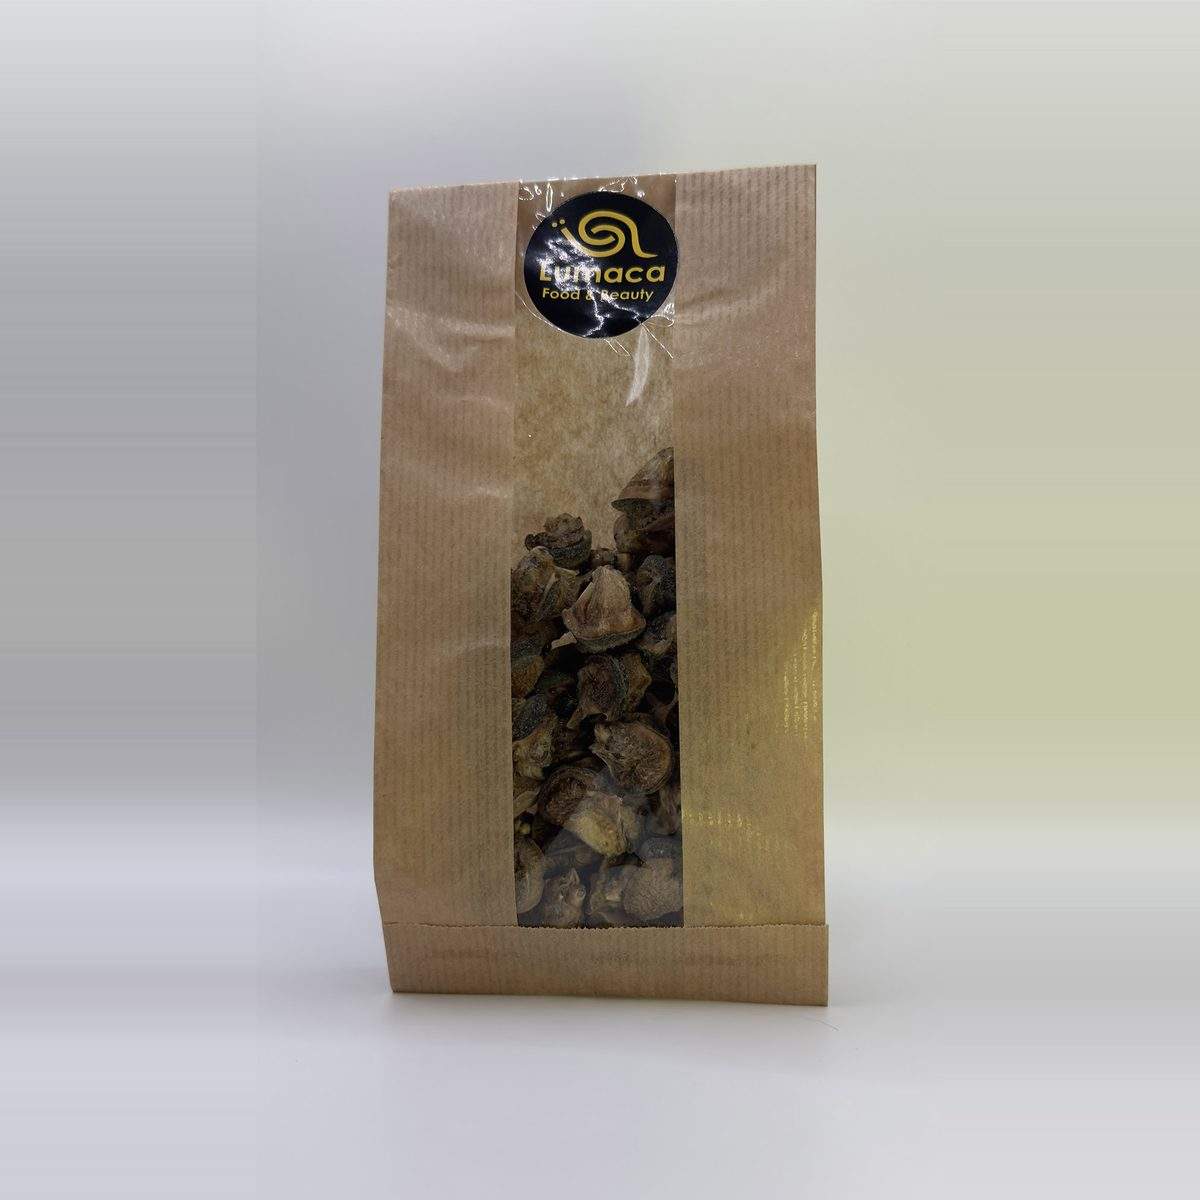
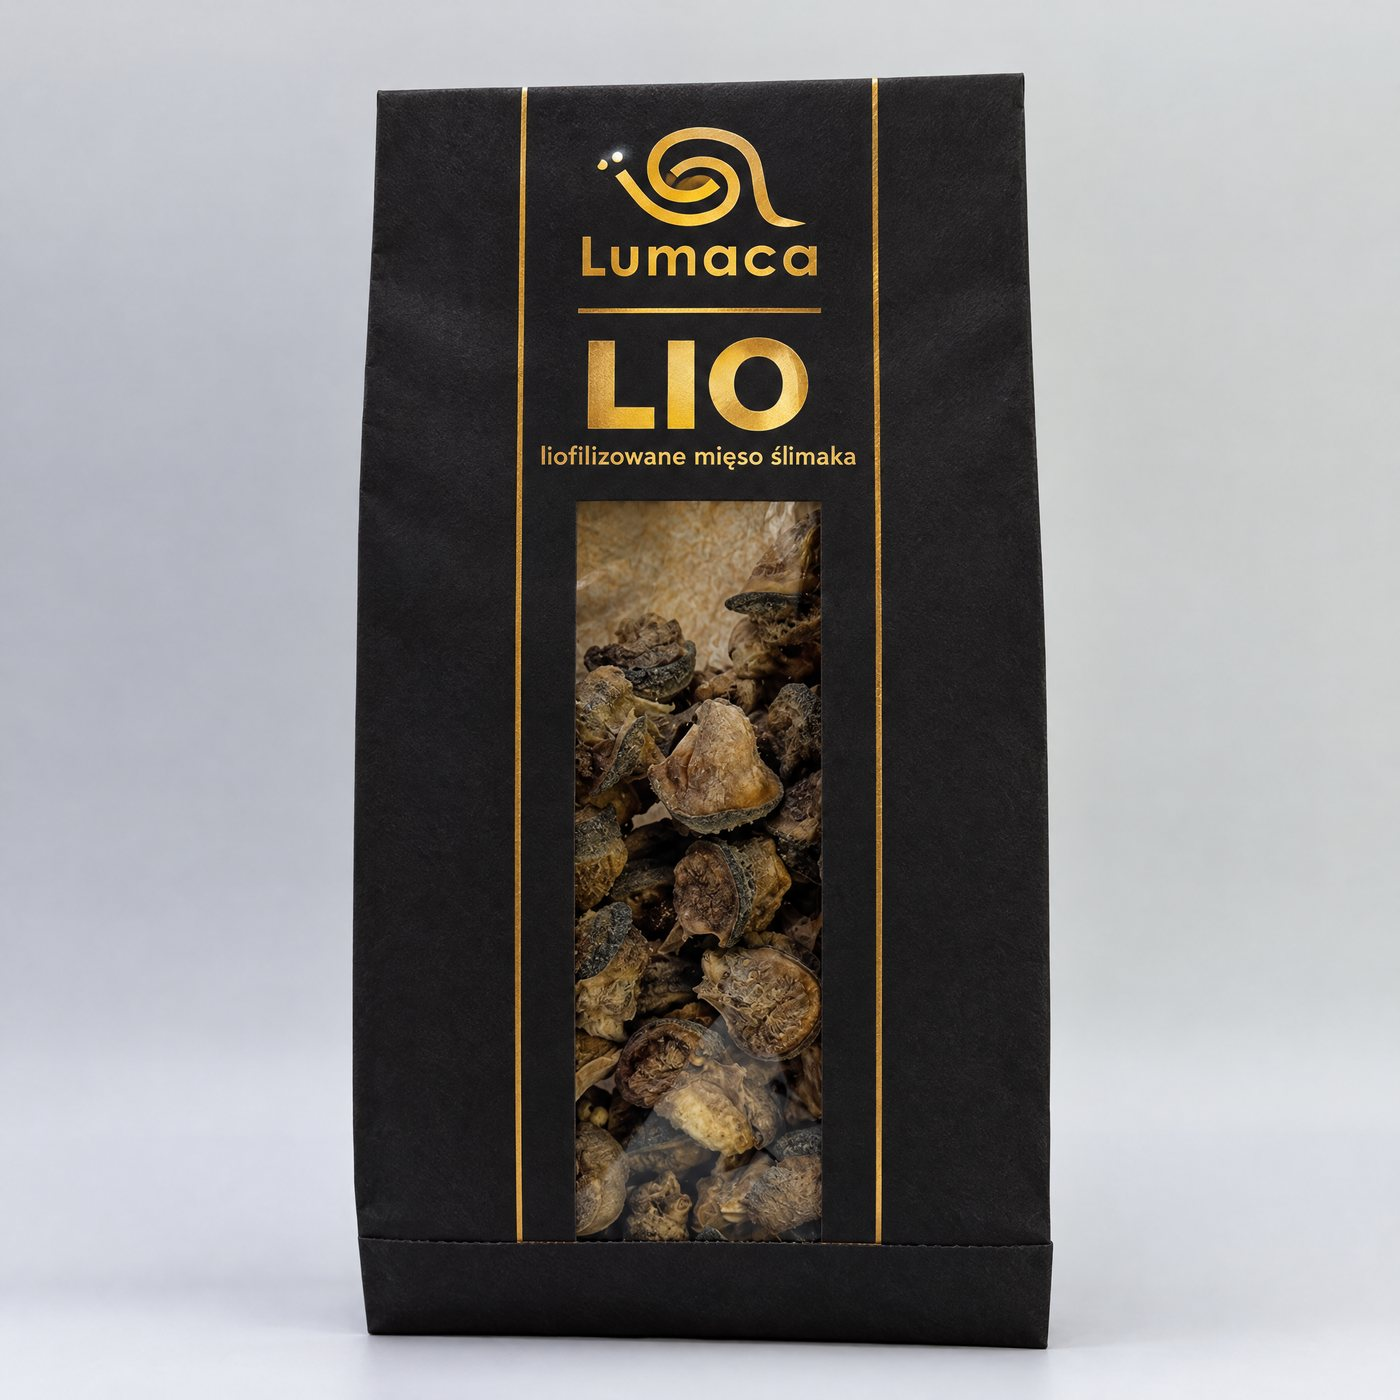
Lumaca: jars in the new black label; owners named
- Product photos (four jars and the Lio bag) re-rendered with the black
  and gold label, the logo as the only snail, dish names per the plan's
  naming (w sosie pomidorowym, not Bolognese). Made with Higgsfield from
  the real product shots; mock-ups until the labels are printed.
- "Nasza kuchnia" and the homepage name the owners: Grażyna Nawrocka and
  her husband Tomasz Nawrocki.

Claude-Session: https://claude.ai/code/session_014WLCzke7iHutMjh5earGf9

diff --git a/lumaca/nasza-kuchnia/index.html b/lumaca/nasza-kuchnia/index.html
@@ -60,8 +60,8 @@
   </header>
   <section class="story" aria-labelledby="h-story"><h2 id="h-story" class="sec-title">Zapomniany polski przysmak</h2><ol><li><span class="num">1</span><h3>Ślimaki były polskim przysmakiem</h3><p>Jedli je nasi przodkowie. Przepisy na ślimaki znajdziemy już w pierwszej polskiej książce kucharskiej, „Compendium ferculorum” Stanisława Czernieckiego z 1682 roku, a w dawnej Polsce trafiały na stół zwłaszcza w czasie postu.</p></li><li><span class="num">2</span><h3>Polska o nich zapomniała, choć nadal je produkuje</h3><p>Od lat hodujemy i eksportujemy ślimaki, głównie do Francji, a sami prawie ich nie jemy.</p></li><li><span class="num">3</span><h3>Lumaca przywraca je na polski stół</h3><p>W nowoczesnej formie: gotowe dania ze ślimaków z polskich hodowli, przyrządzane w małej przetwórni w Świętokrzyskiem. Wystarczy podgrzać i podać.</p></li></ol></section>
   <section class="person">
-    <figure><div class="photo-todo"><img src="/img/mark-yellow.png" alt="" width="110" height="49"><p>Tu zdjęcie Grażyny w przetwórni</p></div></figure>
-    <div class="label-card dark"><p class="kind">Twarz Lumaki</p><h2>Grażyna</h2><p>Grażyna, współwłaścicielka Lumaki, zaczynała od hodowli ślimaków. Z czasem zamieniła ją na kuchnię: dziś Lumaca kupuje ślimaki od sprawdzonych polskich hodowców, a w przetwórni powstają dania według jej receptur. Na jarmarkach to ona częstuje ślimakami w maśle czosnkowym tych, którzy próbują ich pierwszy raz.</p></div>
+    <figure><div class="photo-todo"><img src="/img/mark-yellow.png" alt="" width="110" height="49"><p>Tu zdjęcie Grażyny i Tomasza w przetwórni</p></div></figure>
+    <div class="label-card dark"><p class="kind">Właściciele</p><h2>Grażyna i Tomasz Nawroccy</h2><p>Lumakę prowadzą Grażyna Nawrocka i jej mąż, Tomasz Nawrocki. Zaczynali od hodowli ślimaków. Z czasem zamienili ją na kuchnię: dziś Lumaca kupuje ślimaki od sprawdzonych polskich hodowców, a w przetwórni w Kołomaniu powstają dania według ich receptur. Na jarmarkach to Grażyna częstuje ślimakami w maśle czosnkowym tych, którzy próbują ich pierwszy raz.</p></div>
   </section>
   <section class="sec" aria-labelledby="h-facts"><h2 id="h-facts" class="sec-title">Co stoi za każdym słoikiem</h2><ul class="fact-grid"><li><h3>Polskie hodowle</h3><p>Ślimaki gros gris (Helix aspersa maxima) od polskich hodowców, ze świadectwem pochodzenia i świadectwem weterynaryjnym.</p></li><li><h3>Mała przetwórnia</h3><p>Zakład przetwórstwa w Kołomaniu, zatwierdzony przez inspekcję weterynaryjną (nr PL26040901). Gotujemy małymi partiami.</p></li><li><h3>Własne receptury</h3><p>Mięso ślimaka gotujemy 120 minut w bulionie warzywnym z białym winem wytrawnym, a potem zamykamy w sosach według naszych przepisów.</p></li><li><h3>Sprawdzone etykiety i trwałość</h3><p>Etykiety kontrolowane przez IJHARS. Rok trwałości w temperaturze pokojowej potwierdzony badaniami laboratorium SGS.</p></li><li><h3>Rocznik</h3><p>Ślimaki kupujemy raz w roku, jesienią. Każda partia to naturalny rocznik, jak w winie: teraz w słoikach jest rocznik 2026.</p></li></ul></section>
   <section class="band-dark lowca">

diff --git a/lumaca/w-mediach/index.html b/lumaca/w-mediach/index.html
@@ -56,8 +56,8 @@
   </header>
   <section class="sec"><h2 class="sec-title">Publikacje</h2><p class="muted">Pierwsze publikacje pojawią się tu wkrótce.</p></section>
   <section class="sec"><h2 class="sec-title">Historia w trzech zdaniach</h2><ol class="plain"><li>Ślimaki były polskim przysmakiem. Jedli je nasi przodkowie. Przepisy na ślimaki znajdziemy już w pierwszej polskiej książce kucharskiej, „Compendium ferculorum” Stanisława Czernieckiego z 1682 roku, a w dawnej Polsce trafiały na stół zwłaszcza w czasie postu.</li><li>Polska o nich zapomniała, choć nadal je produkuje. Od lat hodujemy i eksportujemy ślimaki, głównie do Francji, a sami prawie ich nie jemy.</li><li>Lumaca przywraca je na polski stół. W nowoczesnej formie: gotowe dania ze ślimaków z polskich hodowli, przyrządzane w małej przetwórni w Świętokrzyskiem. Wystarczy podgrzać i podać.</li></ol></section>
-  <section class="band-dark"><div><p class="kind">Pakiet medialny</p><h2>Porozmawiaj z Grażyną</h2>
-    <p>Wyślemy komunikat, biogram i zdjęcia Grażyny, teczkę faktów, trzy przepisy i zdjęcia dań. Zestaw degustacyjny dla redakcji na życzenie.</p>
+  <section class="band-dark"><div><p class="kind">Pakiet medialny</p><h2>Porozmawiaj z Grażyną Nawrocką</h2>
+    <p>Wyślemy komunikat, biogram i zdjęcia Grażyny i Tomasza Nawrockich, teczkę faktów, trzy przepisy i zdjęcia dań. Zestaw degustacyjny dla redakcji na życzenie.</p>
     <a class="btn btn-gold" href="mailto:info@lumaca.eco?subject=Media">info@lumaca.eco</a></div></section>
 </div>
 

diff --git a/lumaca/index.html b/lumaca/index.html
@@ -141,7 +141,7 @@
   <div>
     <p class="kind">Zapomniany polski przysmak</p>
     <h2 id="h-kit" class="sec-title">Nasza kuchnia</h2>
-    <p>Grażyna zaczynała od hodowli ślimaków. Dziś Lumaca to mała przetwórnia w Kołomaniu pod Kielcami: kupujemy ślimaki od polskich hodowców, gotujemy je według własnych receptur i zamykamy w słoikach małymi partiami.</p>
+    <p>Grażyna i Tomasz Nawroccy zaczynali od hodowli ślimaków. Dziś Lumaca to ich mała przetwórnia w Kołomaniu pod Kielcami: kupują ślimaki od polskich hodowców, gotują je według własnych receptur i zamykają w słoikach małymi partiami.</p>
     <ol class="plain small"><li>Ślimaki były polskim przysmakiem.</li><li>Polska o nich zapomniała, choć nadal je produkuje.</li><li>Lumaca przywraca je na polski stół.</li></ol>
     <a class="btn btn-ink" href="/nasza-kuchnia/">Poznaj naszą historię</a>
   </div>

diff --git a/lumaca/scripts/build.py b/lumaca/scripts/build.py
@@ -572,7 +572,7 @@ def kitchen_page():
     K = KITCHEN
     story = ''.join(f'<li><span class="num">{k + 1}</span><h3>{e(s["title"])}</h3><p>{e(s["text"])}</p></li>' for k, s in enumerate(K['story']))
     facts = ''.join(f'<li><h3>{e(f["title"])}</h3><p>{e(f["text"])}</p></li>' for f in K['facts'])
-    gphoto = img(K['grazyna_image'], '(max-width:720px) 100vw, 40vw') or '<div class="photo-todo"><img src="/img/mark-yellow.png" alt="" width="110" height="49"><p>Tu zdjęcie Grażyny w przetwórni</p></div>'
+    gphoto = img(K['grazyna_image'], '(max-width:720px) 100vw, 40vw') or '<div class="photo-todo"><img src="/img/mark-yellow.png" alt="" width="110" height="49"><p>Tu zdjęcie Grażyny i Tomasza w przetwórni</p></div>'
     main = f'''
 <div class="wrap">
   {crumbs([('Strona główna', '/'), ('Nasza kuchnia', '/nasza-kuchnia/')])}
@@ -583,7 +583,7 @@ def kitchen_page():
   <section class="story" aria-labelledby="h-story"><h2 id="h-story" class="sec-title">Zapomniany polski przysmak</h2><ol>{story}</ol></section>
   <section class="person">
     <figure>{gphoto}</figure>
-    <div class="label-card dark"><p class="kind">Twarz Lumaki</p><h2>{e(K["grazyna_title"])}</h2><p>{e(K["grazyna_text"])}</p></div>
+    <div class="label-card dark"><p class="kind">Właściciele</p><h2>{e(K["grazyna_title"])}</h2><p>{e(K["grazyna_text"])}</p></div>
   </section>
   <section class="sec" aria-labelledby="h-facts"><h2 id="h-facts" class="sec-title">{e(K["facts_title"])}</h2><ul class="fact-grid">{facts}</ul></section>
   <section class="band-dark lowca">
@@ -685,8 +685,8 @@ def press_page():
   </header>
   <section class="sec"><h2 class="sec-title">Publikacje</h2>{f'<ul class="press">{items}</ul>' if items else '<p class="muted">Pierwsze publikacje pojawią się tu wkrótce.</p>'}</section>
   <section class="sec"><h2 class="sec-title">Historia w trzech zdaniach</h2><ol class="plain">{story}</ol></section>
-  <section class="band-dark"><div><p class="kind">Pakiet medialny</p><h2>Porozmawiaj z Grażyną</h2>
-    <p>Wyślemy komunikat, biogram i zdjęcia Grażyny, teczkę faktów, trzy przepisy i zdjęcia dań. Zestaw degustacyjny dla redakcji na życzenie.</p>
+  <section class="band-dark"><div><p class="kind">Pakiet medialny</p><h2>Porozmawiaj z Grażyną Nawrocką</h2>
+    <p>Wyślemy komunikat, biogram i zdjęcia Grażyny i Tomasza Nawrockich, teczkę faktów, trzy przepisy i zdjęcia dań. Zestaw degustacyjny dla redakcji na życzenie.</p>
     <a class="btn btn-gold" href="mailto:{e(S["email"])}?subject=Media">{e(S["email"])}</a></div></section>
 </div>'''
     write('/w-mediach/', shell('Lumaca w mediach', 'Publikacje o Lumace i pakiet medialny: zapomniany polski przysmak wraca na stół.', main, path='/w-mediach/',

diff --git a/lumaca/README.md b/lumaca/README.md
@@ -50,7 +50,8 @@ and open the contact form with the product filled in. With the key, they add to 
 - "Rocznik 2026" and the numbered Christmas series (a decision listed in the plan).
 - One phone number for everything (the site uses +48 501 501 130).
 - Allergens: molluscs on every jar; whether the court-bouillon contains celery and the wine sulphites.
-- Photos: served dishes are cropped from the pro bono team's draft visuals and should be replaced by real photos;
-  Grażyna's photo is missing; occasions use Unsplash photos.
+- Photos: the jar and Lio photos are the real product shots with the new black label rendered on by AI (Higgsfield),
+  i.e. mock-ups until the new labels are printed and photographed. Served dishes are cropped from the pro bono team's
+  draft visuals; the owners' photo (Grażyna and Tomasz Nawroccy) is missing; occasions use Unsplash photos.
 - Terms of sale and privacy policy texts (the old site had lorem ipsum).
 - EN and FR versions (product names in three languages are on the B2B page for now).
